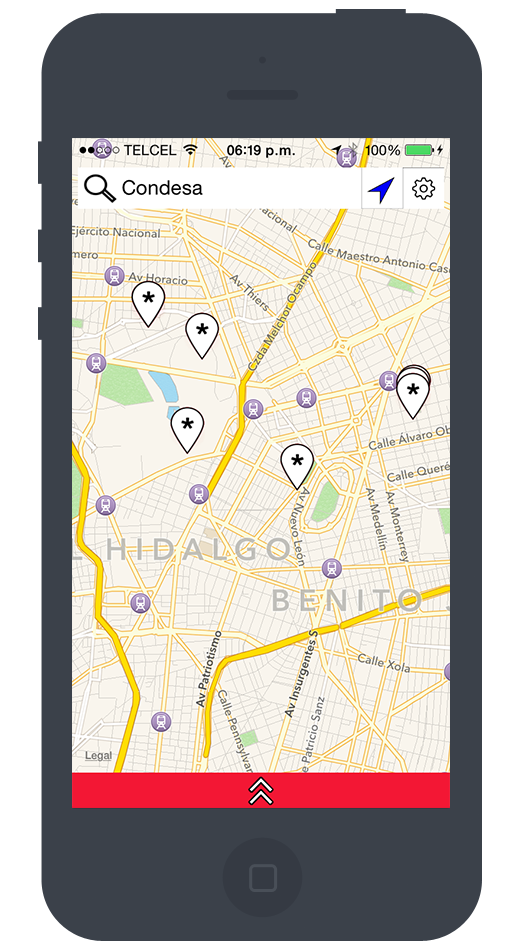
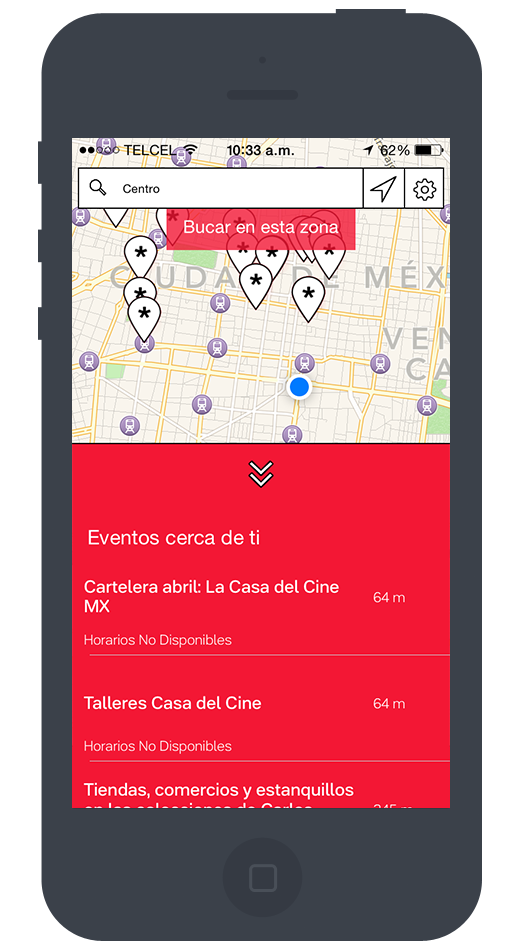
cambios de busqueda

diff --git a/DejateCaer/ViewController.m b/DejateCaer/ViewController.m
@@ -657,7 +657,7 @@
             NSLog(@"%@",buscar.text);
             NSLog(@"%@",buscar.text);
             [self.view endEditing:YES];
-            [self getPlacesApple];
+            [self getPlaces];
         }
         else
         {
@@ -958,6 +958,48 @@ bucar_aqui.backgroundColor=[UIColor colorWithRed:(243/255.0) green:(23/255.0) bl
     }
 }
 
+-(void) getPlaces{
+    dispatch_async(dispatch_get_main_queue(), ^{
+        NSString *direccion=buscar.text;//@"juan%20escutia%2094,la%20Condesa";
+       
+        
+        NSData *stringData = [direccion dataUsingEncoding: NSASCIIStringEncoding allowLossyConversion: YES];
+        
+        direccion = [[NSString alloc] initWithData: stringData encoding: NSASCIIStringEncoding];      direccion = [direccion stringByReplacingOccurrencesOfString:@" "
+                                                         withString:@"%20"];
+        NSString *url = [NSString stringWithFormat:@"https://maps.googleapis.com/maps/api/place/textsearch/json?key=TuKey&sensor=true&query=%@,distritofederal",direccion];
+        
+        NSData *data = [NSData dataWithContentsOfURL:[NSURL URLWithString:url]];
+        
+        if (data!=nil) {
+            
+            
+            NSString *dato=[[NSString alloc] initWithData:data encoding:NSUTF8StringEncoding];
+            NSMutableString * miCadena = [NSMutableString stringWithString: dato];
+            
+            NSData *data1 = [miCadena dataUsingEncoding:NSUTF8StringEncoding];
+            
+            NSDictionary *jsonObject = [NSJSONSerialization JSONObjectWithData:data1 options:NSJSONReadingAllowFragments error:nil];
+            NSArray *aux=[jsonObject objectForKey:@"results"];
+            if ([aux count]==0) {
+                UIAlertView *alerta=[[UIAlertView alloc]initWithTitle:@"Mensaje" message:@"No encontramos el lugar que buscas, intenta con otra direccón" delegate:nil cancelButtonTitle:@"Aceptar" otherButtonTitles:nil, nil];
+                [alerta show];
+            }
+            else{
+            NSDictionary *primero=[[jsonObject objectForKey:@"results"]objectAtIndex:0];
+            NSDictionary *coordenadas=[[primero objectForKey:@"geometry"] objectForKey:@"location"];
+            
+                [self obtenerEventos: [[coordenadas objectForKey:@"lat"] floatValue] Y:[[coordenadas objectForKey:@"lng"] floatValue]];}
+        }
+        else{
+            
+            UIAlertView *alerta=[[UIAlertView alloc]initWithTitle:@"Mensaje" message:@"No encontramos el lugar que buscas, intenta con otra direccón" delegate:nil cancelButtonTitle:@"Aceptar" otherButtonTitles:nil, nil];
+            [alerta show];
+        }
+        
+    });
+    
+}
 
 
 @end
